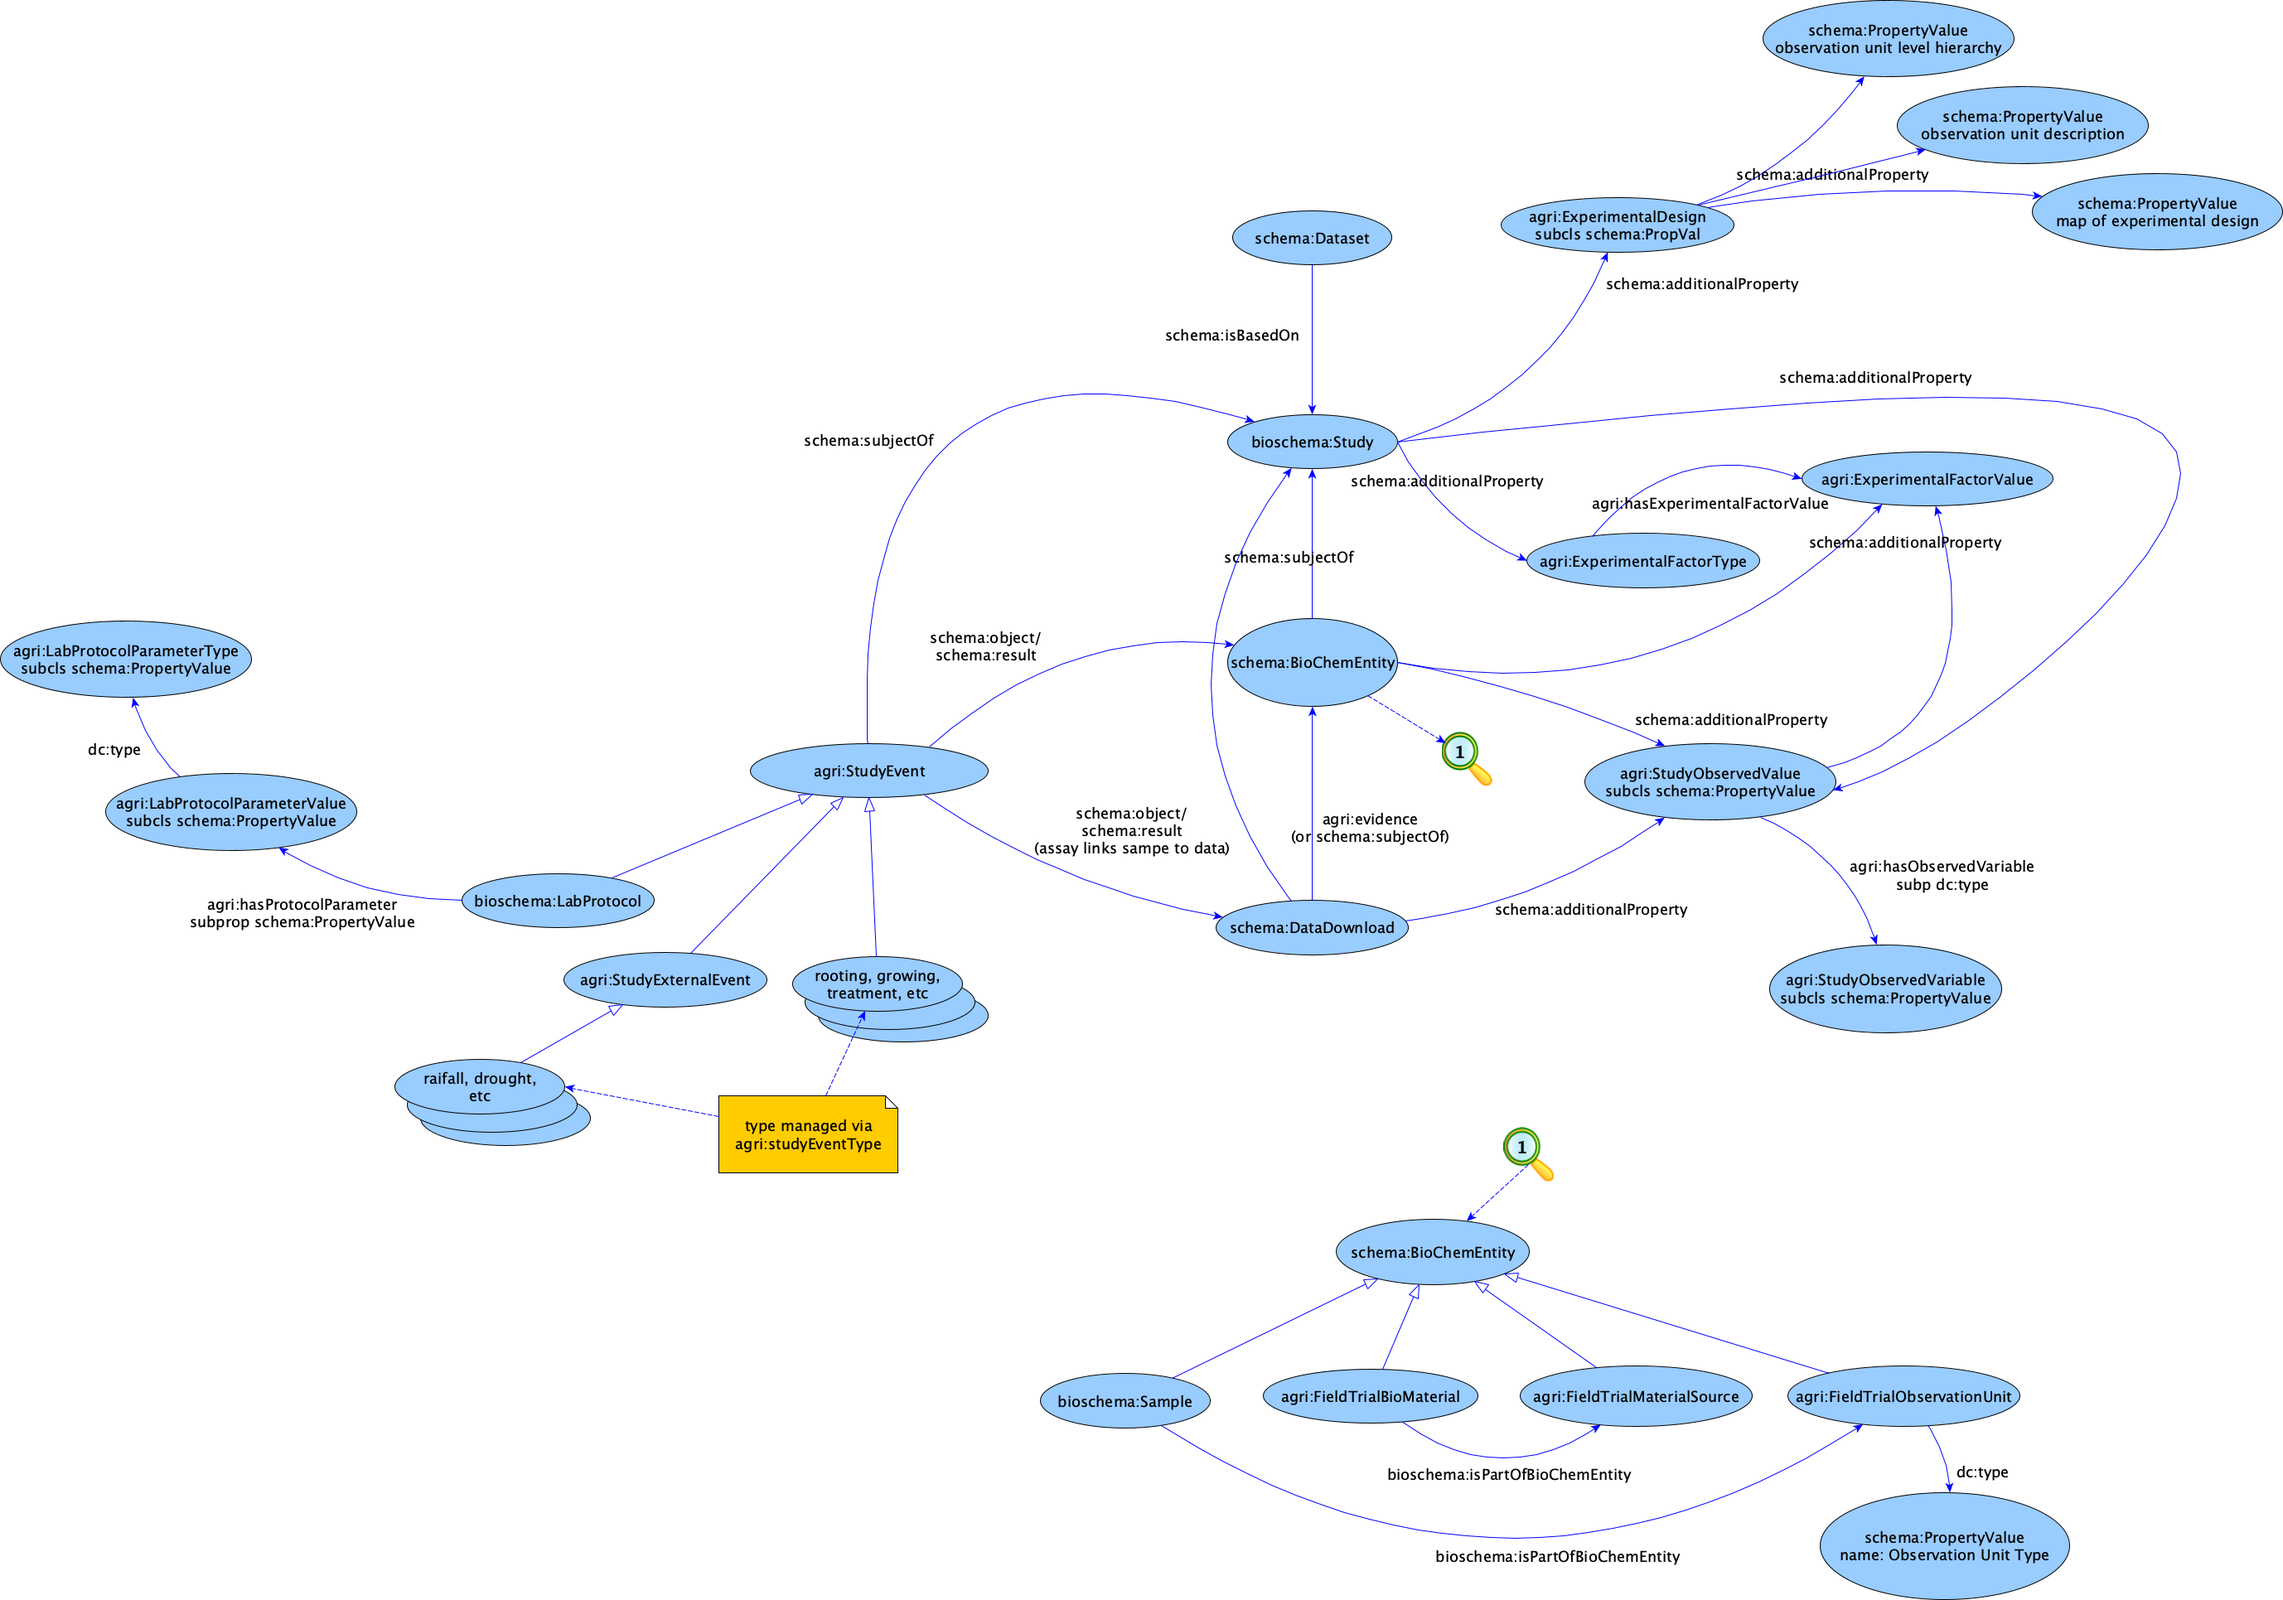
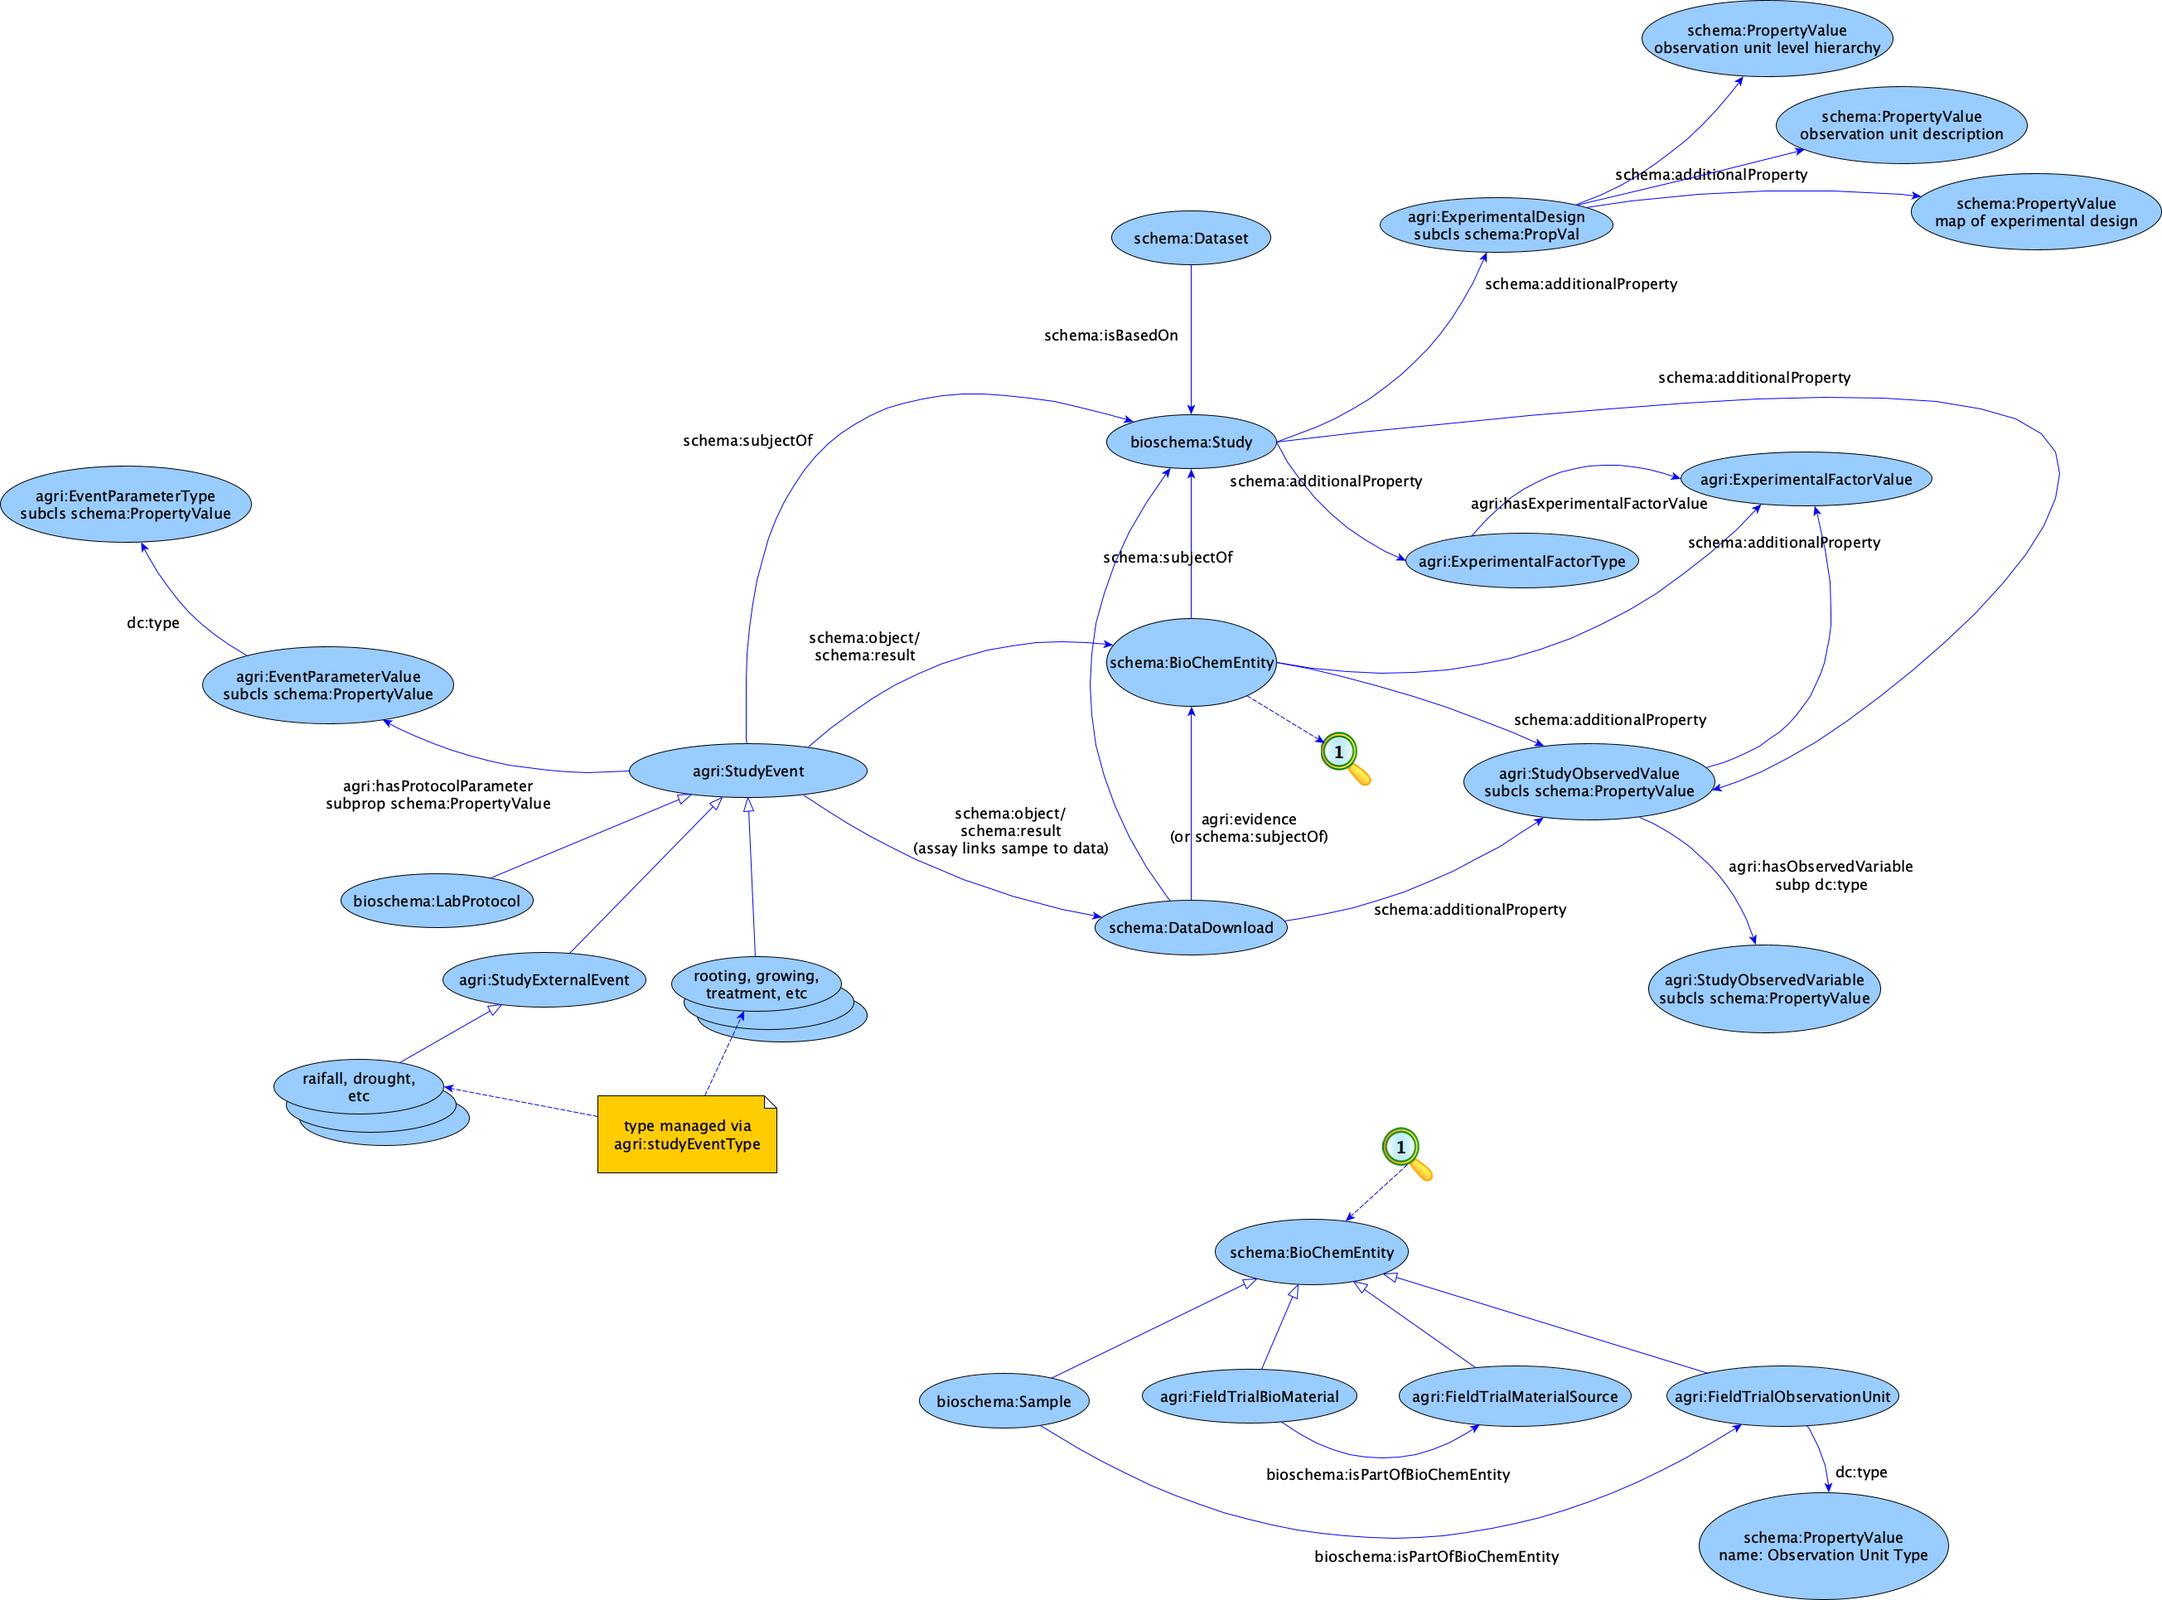
Translating hackathon decisions into RDF.

diff --git a/doc/miappe-use-case/dataset-arabidopsis/README.md b/doc/miappe-use-case/dataset-arabidopsis/README.md
@@ -167,10 +167,9 @@ The following applies what said above for value/type pairs.
 * As above, this is an extension of PropertyValue
 * ontology terms added as above, using dc:type
 * we introduce `agri:hasExperimentalFactorType` to link to the type.
-* we also introduce the symmetrical property `agri:hasExperimentalFactorValue`, so that there is
-  an easy way to list all the possible factor values for a type.
-	* Both `ExperimentalFactorType` and `Study` (or schema:Thing?) should be in the range of this 
-	  property, so that we can qualify the factor values and types an entity is about
+* we also introduce the symmetrical property `agri:hasExperimentalFactorValue`, so that there is an easy way to list all the possible factor values for a type.
+	* These two properties are **only** to link value/type. To link from other entitied (eg, study -> factor types or values), use `schema:additionalProperty`
+  * Moreover, you might want to keep things simple, by using `dc:type` in place of these specific new predicates. It's always possible to know the factor type for a factor value, by including the classes in the queries. 
 
 ## New type ExperimentalFactorType
 * this is optional, ExperimentalFactorValue already can accomodate  a type qualifier in
@@ -202,19 +201,16 @@ So, our proposal is as follow.
 * Domain/range of object/result of a study event include observation unit, sample, data download
 * We propose the new `bioschema:StudyExternalEvent`, as a subclass of `bioschema:StudyEvent` and 
 	distinct from `LabProtocol`
-* Introduce `agri:studyEventType` at the StudyEvent level, with a range of text or URL or DefinedTerm or PropertyValue
-  This will allow to define things like "growing protocol", "rainfall", "watering" and applies
-	to both protocols and external events
+* Use `dc:type` to qualify the event type with MIAPPE/PPOE terms, eg, "growing protocol", "rainfall", "watering". This applies to both protocols and external events.
 * As elsewhere, `schema:subjectOf` links `StudyEvent` to `Study` (and hence, all the mentioned subclasses)
 	* As said above prefer this to `schema:partOf`. `schema:studySubject` has a very different meaning.
 
 ### LabProtocolParameterValue and LabProtocolParameterType
 
-* We propose the new `agri:LabProtocolParameterValue` as subclass of `schema:PropertyValue`.
-  Similarly, introduce `agri:LabProtocolParameterType` (both modelled as per the discussion above on value/type pairs).
-* introduce `agri:hasProtocolParameter` as subproperty of `schema:additionalProperty`
-  (to link a protocol to its parameter values or types)
-
+* We propose the new `agri:LabProtocolParameterValue` as subclass of `schema:PropertyValue`. Similarly, introduce `agri:LabProtocolParameterType` (both modelled as per the discussion above on value/type pairs).
+* introduce `agri:hasLabProtocolParameterValue` as subproperty of `dc:type`, to link a param type to its values. Introduce its inverse, `agri:hasLabProtocolParameterType`.
+	* As in other cases, these two properties are **only** to link value/type. To link from other entitied (eg, event -> parameters), use `schema:additionalProperty`
+  * Moreover, you might want to keep things simple, by using `dc:type` in place of these specific new predicates (see the factor value case). 
 ## Observed Variables
 
 ### New proposal: agri:StudyObservedVariable
@@ -226,8 +222,11 @@ So, our proposal is as follow.
 ### New proposal: agri:StudyObservedValue
 * Another value/type case. 
 * extends `PropertyValue`, ontology terms added as above
-* * Links StudyObservedVariable via `agri:hasObservedVariable`
+* Links StudyObservedVariable via `agri:hasObservedVariable`
 	* a subproperty of `dc:type`, as above
+	* As in other cases, these two properties are **only** to link value/type. To link from other entitied (eg, sample -> obs value), use `schema:additionalProperty`
+  * Moreover, you might want to keep things simple, by using `dc:type` in place of these specific new predicates (see the factor value case). 
+
 * Use `schema:additionalProperty` to link to this from `schema:DataDownload`, `bioschema:BioSample`, `agri:FieldTrialObservationUnit`.
 	* We haven't decided if to add something like `agri:hasObservedValue` for this.
 * TODO: an alternative to link from DataDownload is `schema:variableMeasured`, but this would require 
@@ -265,9 +264,8 @@ So, our proposal is as follow.
   * An alternative for this would be `schema:subjectOf` (or the symmetric `schema:about`). But the new evidence property is more explicit. Possibly, add these schema annotations too, for interoperability.
 
 ## MIAPPE Environment, Proposal
-* Proposal: use an instance of `agri:LabProtocolParameter`
+* Proposal: use an instance of `agri:LabProtocolParameterValue` and `agri:LabProtocolParameterType`
 * linked to Study, via `additionalProperty` (optional)
-* linked to growth protocol, via `agri:hasProtocolParameter` (optional)
 
 ## Cultural Practices
 * one of the `LabProtocolParameter`(s) that can be associated to growth protocol
